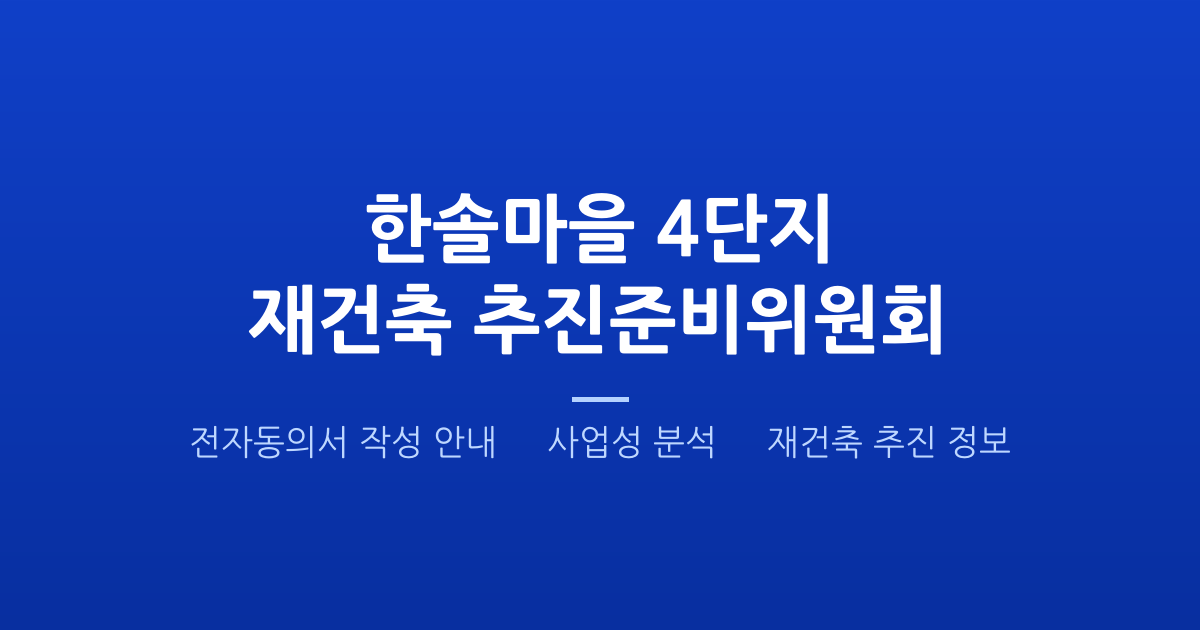
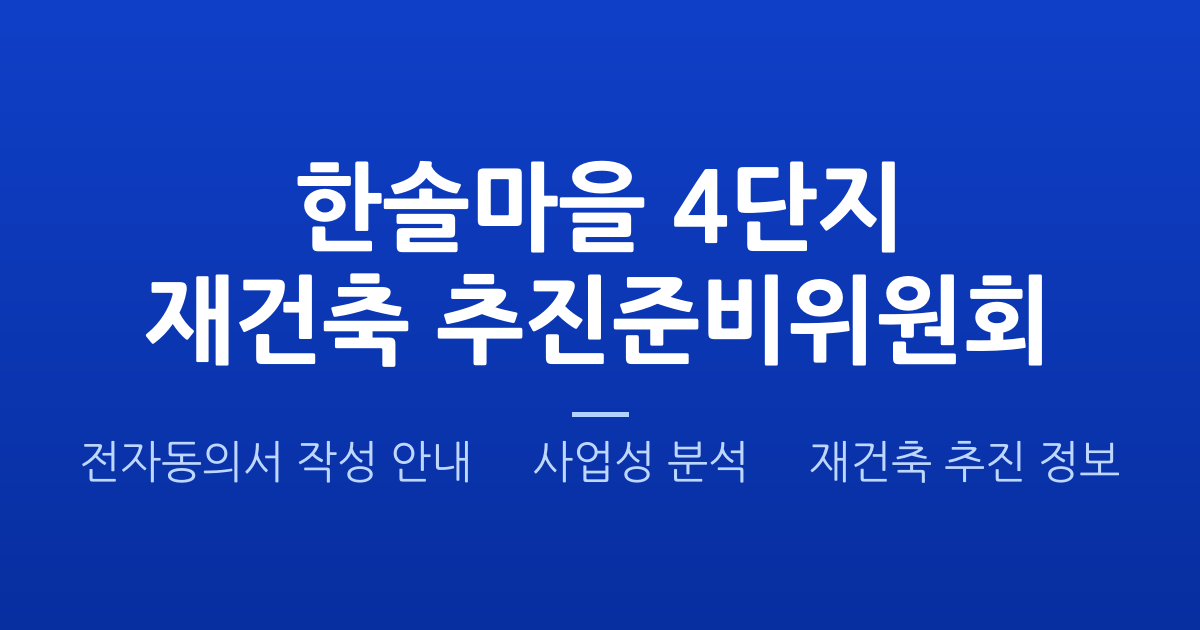
Fix: OG 이미지 텍스트 30% 확대 (72→94px, 34→44px), 캐시 버전 v4

Changed region(s): [[0.1233, 0.2413, 0.8942, 0.6032], [0.0617, 0.6032, 0.925, 0.7841]]

diff --git a/index.html b/index.html
@@ -13,7 +13,7 @@
     <meta property="og:site_name" content="한솔마을 4단지 재건축 추진준비위원회" />
     <meta property="og:title" content="한솔마을 4단지 재건축 추진준비위원회" />
     <meta property="og:description" content="전자동의서 작성 안내 | 사업성 분석 | 재건축 추진 정보" />
-    <meta property="og:image" content="https://hansol4bundang.github.io/hansol4-open/og-image.png?v=3" />
+    <meta property="og:image" content="https://hansol4bundang.github.io/hansol4-open/og-image.png?v=4" />
     <meta property="og:image:width" content="1200" />
     <meta property="og:image:height" content="630" />
     <meta property="og:url" content="https://hansol4bundang.github.io/hansol4-open/" />
@@ -22,7 +22,7 @@
     <meta name="twitter:card" content="summary_large_image" />
     <meta name="twitter:title" content="한솔마을 4단지 재건축 추진준비위원회" />
     <meta name="twitter:description" content="전자동의서 작성 안내 | 사업성 분석 | 재건축 추진 정보" />
-    <meta name="twitter:image" content="https://hansol4bundang.github.io/hansol4-open/og-image.png?v=3" />
+    <meta name="twitter:image" content="https://hansol4bundang.github.io/hansol4-open/og-image.png?v=4" />
 
     <link rel="stylesheet" href="style.css" />
   </head>